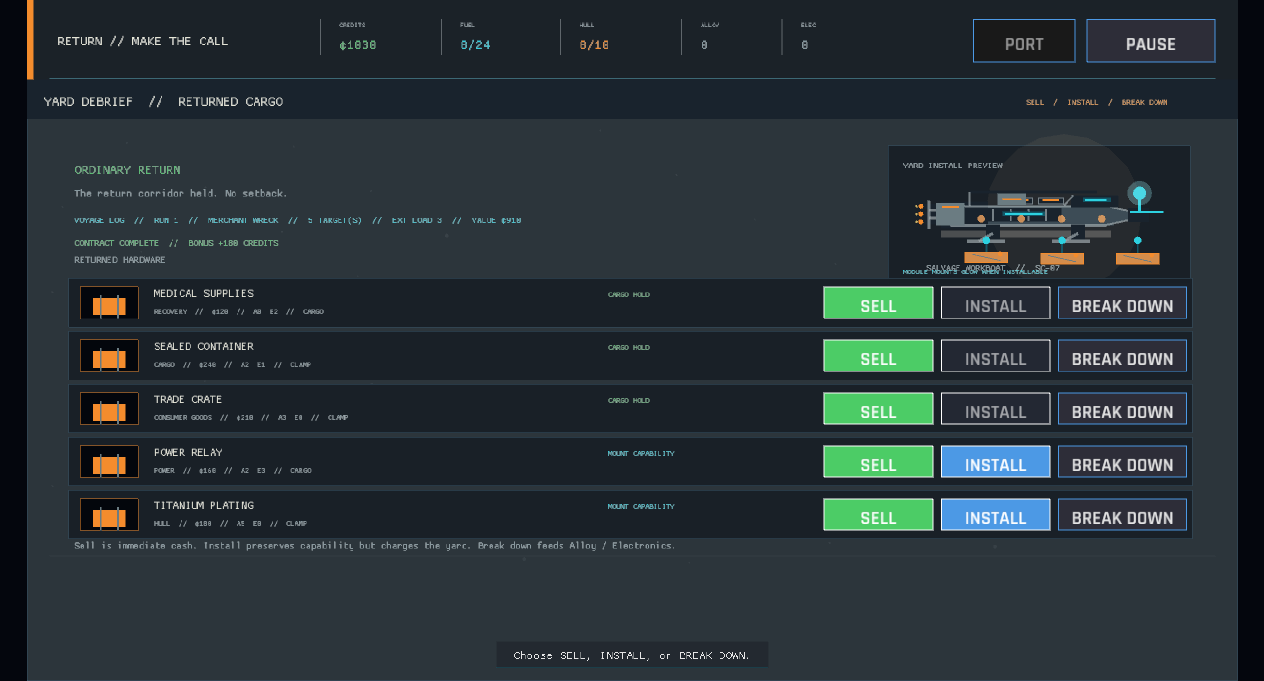
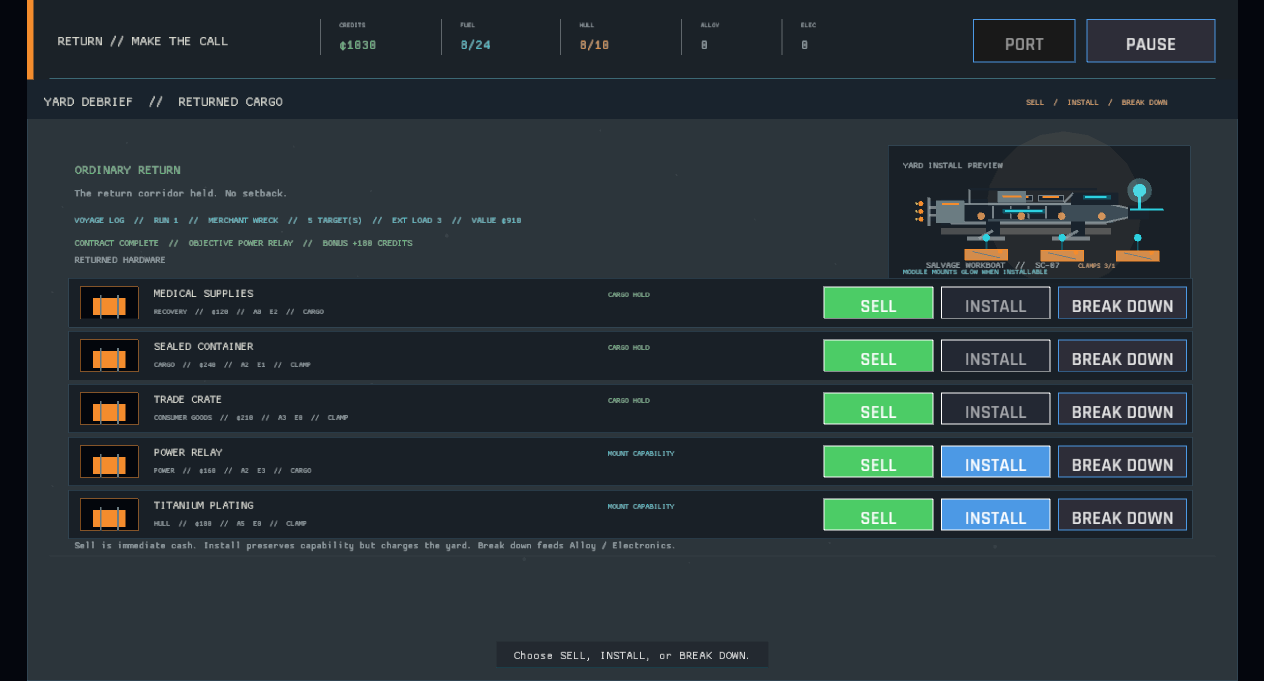
The contract objective stays aboard every stage of the run (objective tracking, GDD 6.3)
The contract target was authored and displayed in several screens, but its state was inferred differently and disappeared from the packing and debrief flow. This adds one state-backed objective tracker that distinguishes open, recovered, complete, and failed targets, then surfaces the identity through workspace, packing, and results.

diff --git a/src/ui/decision_panel.rs b/src/ui/decision_panel.rs
@@ -89,39 +89,50 @@ fn draw_debrief(ctx: &UiContext<'_>) {
     }
     if let Some(site_id) = &ctx.session.selected_site {
         if let Some(site) = ctx.data.sites.get(site_id) {
-            let completed = ctx
-                .session
-                .site_progress
-                .get(site_id)
-                .is_some_and(|progress| progress.contract_completed);
-            let failed = ctx
-                .session
-                .site_progress
-                .get(site_id)
-                .is_some_and(|progress| progress.contract_failed);
+            let objective = ctx.session.contract_objective_status(site_id, ctx.data);
+            let target_name = objective.as_ref().map_or_else(
+                || "UNKNOWN OBJECTIVE".to_owned(),
+                |objective| {
+                    ctx.data.salvage_objects.get(&objective.target_id).map_or(
+                        objective.target_id.clone(),
+                        |target| {
+                            if target.workspace_name.is_empty() {
+                                target.display_name.clone()
+                            } else {
+                                target.workspace_name.clone()
+                            }
+                        },
+                    )
+                },
+            );
             draw_text(
-                if completed {
-                    format!(
-                        "CONTRACT COMPLETE  //  BONUS +{} CREDITS",
+                match objective.as_ref().map(|objective| objective.state) {
+                    Some(crate::state::contracts::ContractObjectiveState::Complete) => format!(
+                        "CONTRACT COMPLETE  //  OBJECTIVE {}  //  BONUS +{} CREDITS",
+                        target_name.to_uppercase(),
                         site.contract_reward
-                    )
-                } else if failed {
-                    "CONTRACT FAILED  //  OBJECTIVE LOST  //  NO BONUS".to_owned()
-                } else {
-                    format!(
-                        "CONTRACT OPEN  //  RECOVER OBJECTIVE  //  +{} CREDITS",
+                    ),
+                    Some(crate::state::contracts::ContractObjectiveState::Failed) => format!(
+                        "CONTRACT FAILED  //  OBJECTIVE {} LOST  //  NO BONUS",
+                        target_name.to_uppercase()
+                    ),
+                    _ => format!(
+                        "CONTRACT OPEN  //  OBJECTIVE {}  //  +{} CREDITS",
+                        target_name.to_uppercase(),
                         site.contract_reward
-                    )
+                    ),
                 },
                 50.0,
                 260.0,
                 12.0,
-                if completed {
-                    visual_theme::safe()
-                } else if failed {
-                    visual_theme::warning()
-                } else {
-                    visual_theme::amber()
+                match objective.as_ref().map(|objective| objective.state) {
+                    Some(crate::state::contracts::ContractObjectiveState::Complete) => {
+                        visual_theme::safe()
+                    }
+                    Some(crate::state::contracts::ContractObjectiveState::Failed) => {
+                        visual_theme::warning()
+                    }
+                    _ => visual_theme::amber(),
                 },
             );
         }

diff --git a/src/ui/salvage_items.rs b/src/ui/salvage_items.rs
@@ -61,6 +61,10 @@ fn draw_hold_panel(ctx: &UiContext<'_>, actions: &mut Vec<UiAction>) {
         .expedition_risk_preview(ctx.data)
         .map_or(0, |preview| preview.danger_score);
     let external_load = ctx.session.external_cargo_count(ctx.data, None);
+    let objective = ctx.session.expedition.as_ref().and_then(|expedition| {
+        ctx.session
+            .contract_objective_status(&expedition.site_id, ctx.data)
+    });
     draw_text(
         &site_label.to_uppercase(),
         hold.x + 20.0,
@@ -68,6 +72,36 @@ fn draw_hold_panel(ctx: &UiContext<'_>, actions: &mut Vec<UiAction>) {
         15.0,
         visual_theme::text(),
     );
+    if let Some(objective) = objective {
+        let target_name = ctx.data.salvage_objects.get(&objective.target_id).map_or(
+            objective.target_id.clone(),
+            |target| {
+                if target.workspace_name.is_empty() {
+                    target.display_name.clone()
+                } else {
+                    target.workspace_name.clone()
+                }
+            },
+        );
+        draw_text(
+            format!(
+                "OBJECTIVE {}  //  {}",
+                objective.state.label(),
+                clipped(&target_name.to_uppercase(), 30)
+            ),
+            hold.x + 20.0,
+            hold.y + 436.0,
+            11.0,
+            match objective.state {
+                crate::state::contracts::ContractObjectiveState::Failed => visual_theme::warning(),
+                crate::state::contracts::ContractObjectiveState::Complete => visual_theme::safe(),
+                crate::state::contracts::ContractObjectiveState::Open
+                | crate::state::contracts::ContractObjectiveState::Recovered => {
+                    visual_theme::amber()
+                }
+            },
+        );
+    }
     draw_text(
         format!(
             "RISK PREVIEW  {:02}%  //  {}  //  EXT STRAIN +{}",
@@ -76,14 +110,14 @@ fn draw_hold_panel(ctx: &UiContext<'_>, actions: &mut Vec<UiAction>) {
             external_load
         ),
         hold.x + 20.0,
-        hold.y + 442.0,
+        hold.y + 454.0,
         12.0,
         danger_color(risk),
     );
     draw_text(
         "A packed object rides home. A left object stays in the wreck.",
         hold.x + 20.0,
-        hold.y + 468.0,
+        hold.y + 478.0,
         12.0,
         visual_theme::text_dim(),
     );

diff --git a/src/ui/salvage_scene.rs b/src/ui/salvage_scene.rs
@@ -362,20 +362,42 @@ fn draw_command_panel(ctx: &UiContext<'_>, layout: SalvageLayout, actions: &mut 
         visual_theme::text_dim(),
     );
     if let Some(expedition) = &ctx.session.expedition {
-        if let Some(progress) = ctx.session.site_progress.get(&expedition.site_id) {
-            let failed = progress.contract_failed;
-            let completed = progress.contract_completed;
+        if let Some(objective) = ctx
+            .session
+            .contract_objective_status(&expedition.site_id, ctx.data)
+        {
+            let target_name = ctx
+                .data
+                .salvage_objects
+                .get(&objective.target_id)
+                .map_or(objective.target_id.clone(), |target| {
+                    if target.workspace_name.is_empty() {
+                        target.display_name.clone()
+                    } else {
+                        target.workspace_name.clone()
+                    }
+                })
+                .to_uppercase();
             draw_text(
-                format!("CONTRACT {}", contract_status_label(completed, failed)),
+                format!(
+                    "OBJ {} // {}",
+                    objective.state.label(),
+                    clipped(&target_name, 13)
+                ),
                 layout.command.x + 190.0,
                 layout.command.y + 14.0,
                 10.0,
-                if failed {
-                    visual_theme::warning()
-                } else if completed {
-                    visual_theme::safe()
-                } else {
-                    visual_theme::amber()
+                match objective.state {
+                    crate::state::contracts::ContractObjectiveState::Failed => {
+                        visual_theme::warning()
+                    }
+                    crate::state::contracts::ContractObjectiveState::Complete => {
+                        visual_theme::safe()
+                    }
+                    crate::state::contracts::ContractObjectiveState::Open
+                    | crate::state::contracts::ContractObjectiveState::Recovered => {
+                        visual_theme::amber()
+                    }
                 },
             );
         }

diff --git a/src/state/contracts.rs b/src/state/contracts.rs
@@ -2,7 +2,68 @@
 
 use super::{CargoItem, CargoStatus, GameData, GameSession};
 
+#[derive(Debug, Clone, Copy, PartialEq, Eq)]
+pub enum ContractObjectiveState {
+    Open,
+    Recovered,
+    Complete,
+    Failed,
+}
+
+impl ContractObjectiveState {
+    pub fn label(self) -> &'static str {
+        match self {
+            Self::Open => "OPEN",
+            Self::Recovered => "IN HOLD",
+            Self::Complete => "COMPLETE",
+            Self::Failed => "FAILED",
+        }
+    }
+}
+
+#[derive(Debug, Clone, PartialEq, Eq)]
+pub struct ContractObjectiveStatus {
+    pub target_id: String,
+    pub state: ContractObjectiveState,
+}
+
 impl GameSession {
+    pub fn contract_objective_status(
+        &self,
+        site_id: &str,
+        data: &GameData,
+    ) -> Option<ContractObjectiveStatus> {
+        let site = data.sites.get(site_id)?;
+        let target_id = site.contract_target.as_deref()?;
+        let progress = self.site_progress.get(site_id);
+        let removed =
+            progress.is_some_and(|value| value.removed_targets.iter().any(|id| id == target_id));
+        let in_hold = removed && self.expedition_contains_target(site_id, target_id);
+        let state = if progress.is_some_and(|value| value.contract_completed) {
+            ContractObjectiveState::Complete
+        } else if progress.is_some_and(|value| value.contract_failed) || removed && !in_hold {
+            ContractObjectiveState::Failed
+        } else if in_hold {
+            ContractObjectiveState::Recovered
+        } else {
+            ContractObjectiveState::Open
+        };
+        Some(ContractObjectiveStatus {
+            target_id: target_id.to_owned(),
+            state,
+        })
+    }
+
+    fn expedition_contains_target(&self, site_id: &str, target_id: &str) -> bool {
+        self.expedition.as_ref().is_some_and(|expedition| {
+            expedition.site_id == site_id
+                && expedition.cargo.iter().any(|item| {
+                    item.object_id == target_id
+                        && matches!(item.status, CargoStatus::Pending | CargoStatus::Packed)
+                })
+        })
+    }
+
     pub fn complete_site_contract(
         &mut self,
         site_id: &str,

diff --git a/src/state/contracts/tests.rs b/src/state/contracts/tests.rs
@@ -1,6 +1,73 @@
 use super::*;
 
 #[test]
+fn contract_objective_status_tracks_the_run_from_open_to_complete() {
+    let data = GameData::load().unwrap();
+    let mut session = GameSession::new(&data);
+
+    let open = session
+        .contract_objective_status("merchant_wreck", &data)
+        .unwrap();
+    assert_eq!(open.target_id, "industrial_battery");
+    assert_eq!(open.state, ContractObjectiveState::Open);
+
+    session.begin_expedition("merchant_wreck", &data).unwrap();
+    assert_eq!(
+        session
+            .contract_objective_status("merchant_wreck", &data)
+            .unwrap()
+            .state,
+        ContractObjectiveState::Open
+    );
+    session.scan_workspace(&data).unwrap();
+    session
+        .recover_workspace_target("industrial_battery", &data)
+        .unwrap();
+    assert_eq!(
+        session
+            .contract_objective_status("merchant_wreck", &data)
+            .unwrap()
+            .state,
+        ContractObjectiveState::Recovered
+    );
+
+    let cargo = vec![CargoItem {
+        object_id: "industrial_battery".to_owned(),
+        status: CargoStatus::Packed,
+        position: Some(crate::data::GridPosition::new(1, 1)),
+        rotation: 0,
+    }];
+    session.complete_site_contract("merchant_wreck", &cargo, &data);
+    assert_eq!(
+        session
+            .contract_objective_status("merchant_wreck", &data)
+            .unwrap()
+            .state,
+        ContractObjectiveState::Complete
+    );
+}
+
+#[test]
+fn contract_objective_status_marks_a_removed_target_failed() {
+    let data = GameData::load().unwrap();
+    let mut session = GameSession::new(&data);
+    session
+        .site_progress
+        .get_mut("merchant_wreck")
+        .unwrap()
+        .removed_targets
+        .push("industrial_battery".to_owned());
+
+    assert_eq!(
+        session
+            .contract_objective_status("merchant_wreck", &data)
+            .unwrap()
+            .state,
+        ContractObjectiveState::Failed
+    );
+}
+
+#[test]
 fn packed_contract_target_pays_once() {
     let data = GameData::load().unwrap();
     let mut session = GameSession::new(&data);
